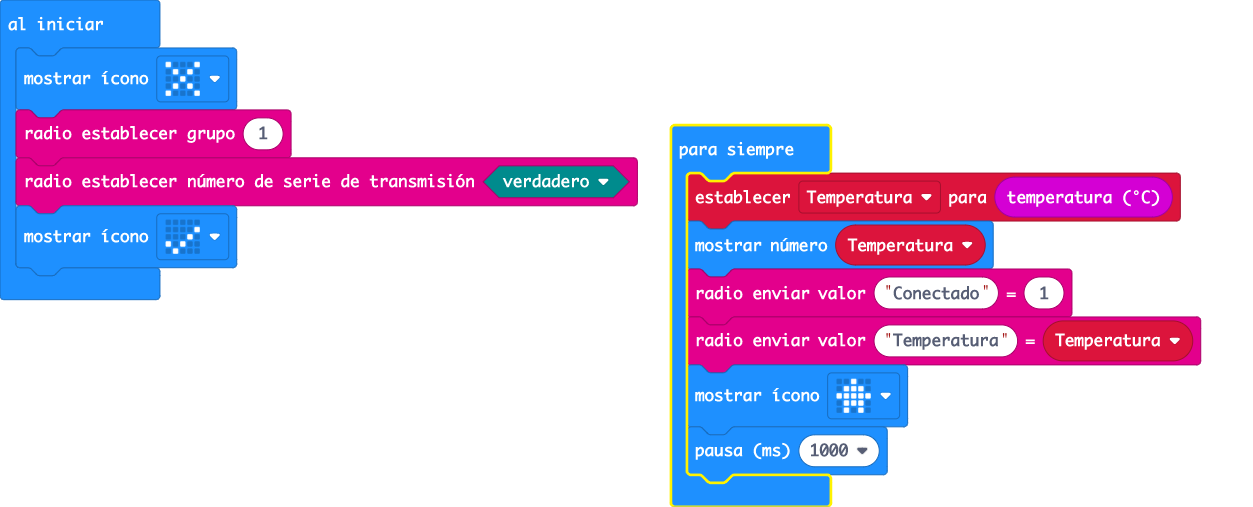
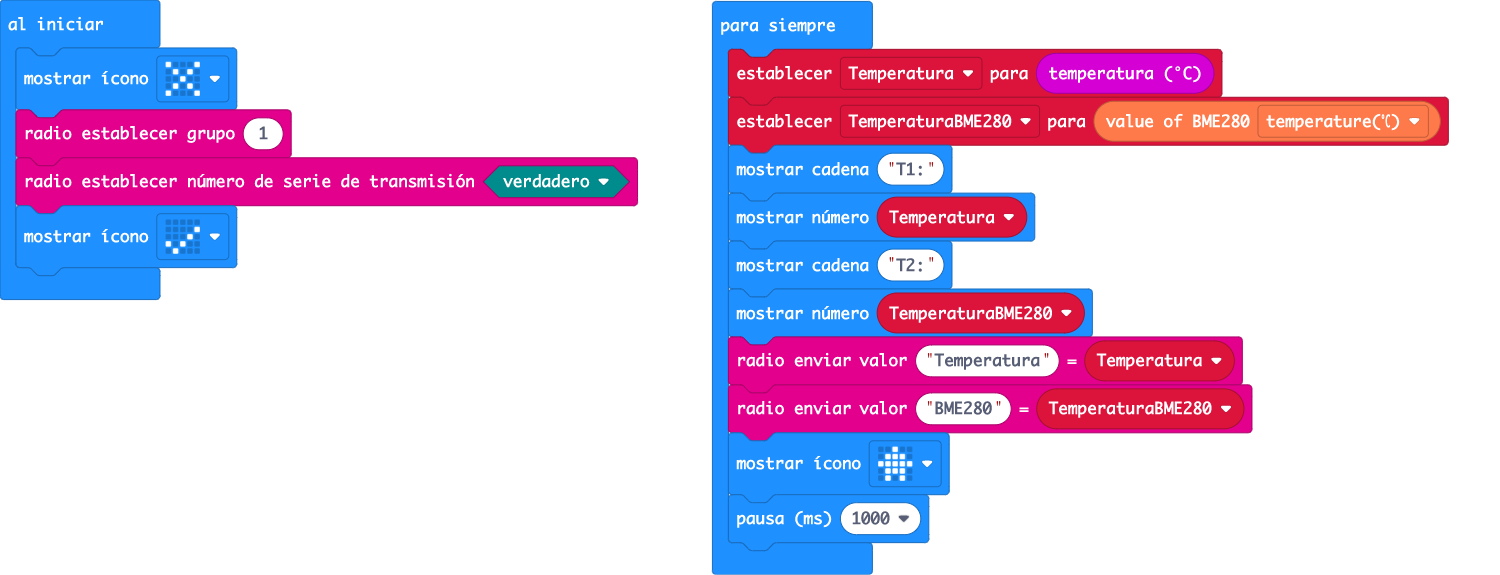
Update pxt.json, main.blocks, main.ts

diff --git a/main.ts b/main.ts
@@ -1,3 +1,4 @@
+let TemperaturaBME280 = 0
 let Temperatura = 0
 basic.showIcon(IconNames.No)
 radio.setGroup(1)
@@ -5,9 +6,13 @@ radio.setTransmitSerialNumber(true)
 basic.showIcon(IconNames.Yes)
 basic.forever(function () {
     Temperatura = input.temperature()
+    TemperaturaBME280 = Environment.octopus_BME280(Environment.BME280_state.BME280_temperature_C)
+    basic.showString("T1:")
     basic.showNumber(Temperatura)
-    radio.sendValue("Conectado", 1)
+    basic.showString("T2:")
+    basic.showNumber(TemperaturaBME280)
     radio.sendValue("Temperatura", Temperatura)
+    radio.sendValue("BME280", TemperaturaBME280)
     basic.showIcon(IconNames.House)
     basic.pause(1000)
 })
